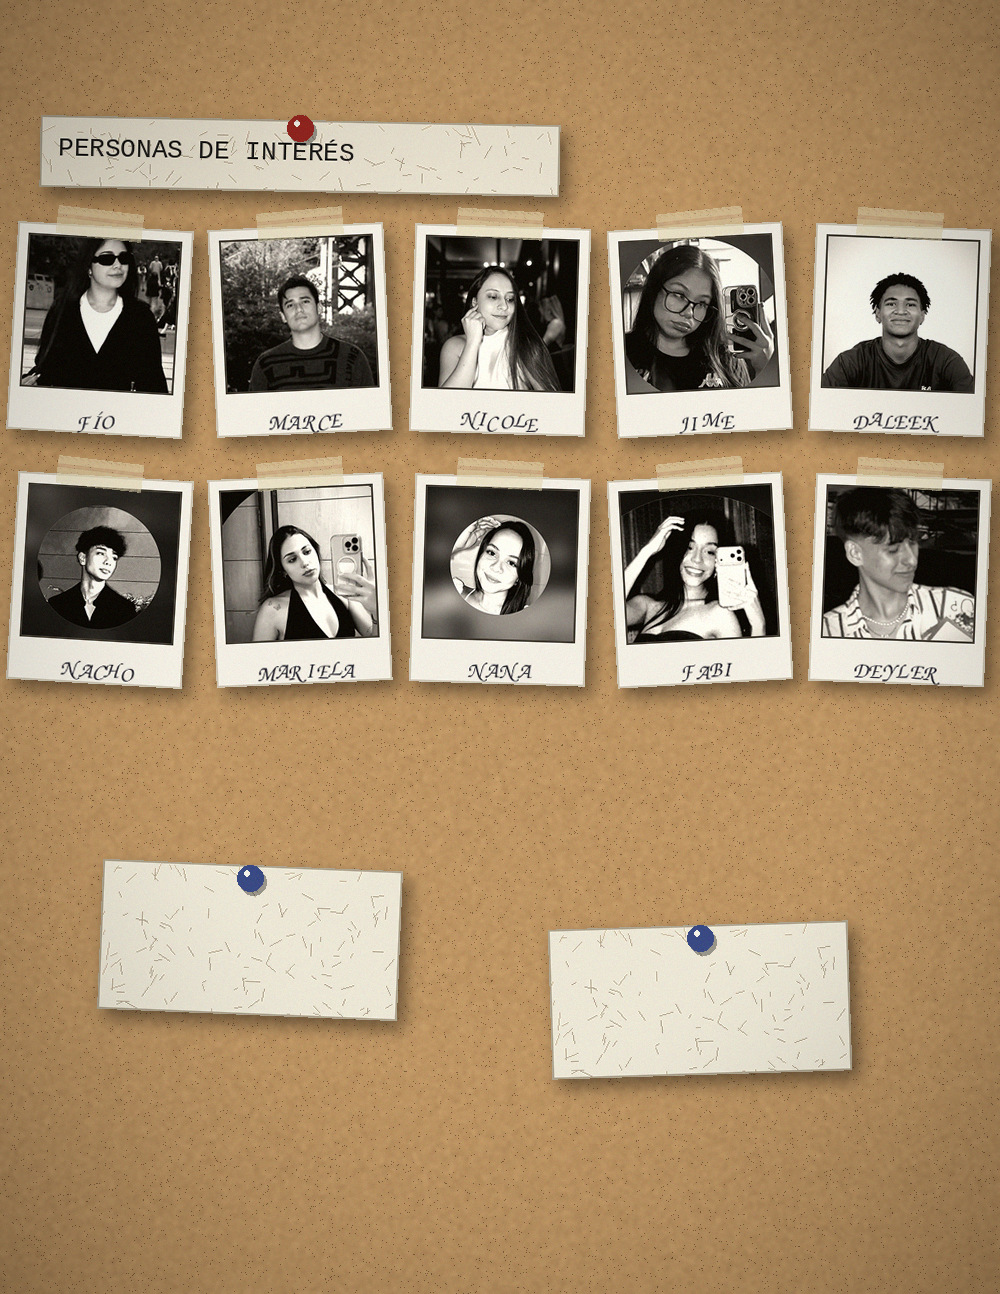
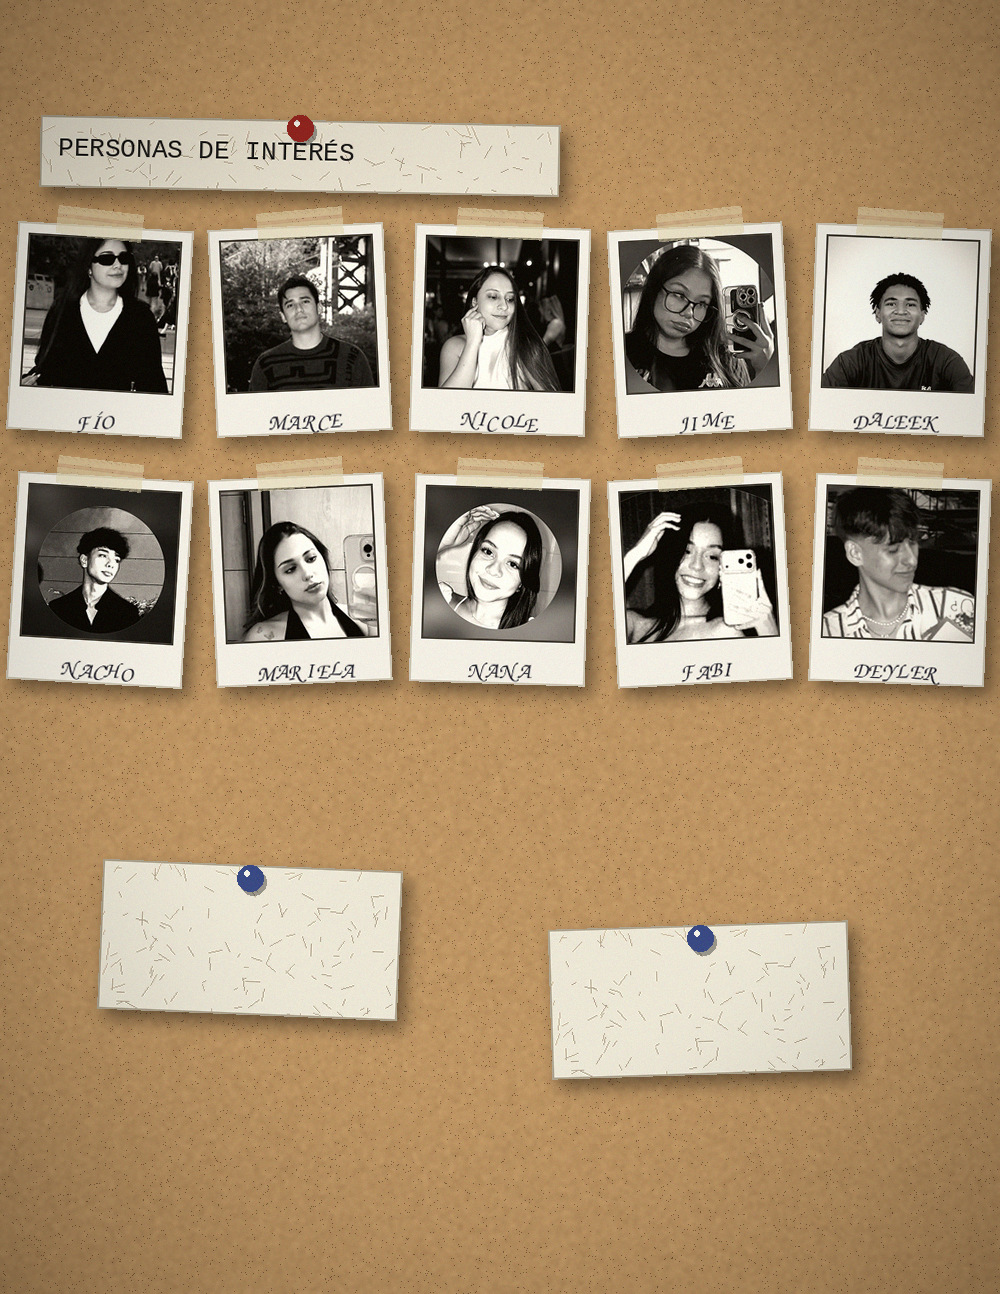
Expediente 002: ajuste manual de encuadre por sujeto
La cascada devuelve una caja chica cuando la cara va ladeada o el pelo
tapa la frente, y el recorte de 3.1x sale como plano mucho mas abierto
que el del resto. Con MARIELA era evidente: la cara quedaba lejos y
pequena frente a las otras nueve.

Se agrega una tabla de ajustes por alias en vez de mover el multiplicador
global, que descuadraria a quienes ya estaban bien. Corregidas MARIELA y
las tres que venian de avatar circular: NACHO, NANA y FABI.

Claude-Session: https://claude.ai/code/session_012N2L3txFtYauyY5dCD6BpE

diff --git a/expediente/process_photos.py b/expediente/process_photos.py
@@ -177,8 +177,29 @@ def detectar(bgr):
 # ─── Paso 2 — Recorte cuadrado ───────────────────────────────────────────────
 
 
-def recortar(pil, caja):
+# Ajuste manual del encuadre, por alias.
+#
+# La cascada devuelve una caja que no siempre cubre la cabeza entera: con la
+# cara ladeada, o con el pelo tapando la frente, la caja sale chica y el
+# recorte de 3.1× termina siendo un plano mucho más abierto que el del resto.
+# Como el encuadre parejo es lo que hace funcionar la rejilla de la hoja de
+# respuestas, estos casos se corrigen a mano en vez de tocar el multiplicador
+# global y descuadrar a los otros nueve.
+#
+#   zoom  <1 acerca, >1 aleja        dx, dy  desplazan, en fracción del lado
+AJUSTES = {
+    "MARIELA": {"zoom": 0.72, "dy": -0.04},
+    # Estas tres llegaron como avatar circular sobre fondo: la cara ocupa poco
+    # del original y el recorte automático las deja más lejos que al resto.
+    "NACHO": {"zoom": 0.80},
+    "NANA": {"zoom": 0.72},
+    "FABI": {"zoom": 0.80},
+}
+
+
+def recortar(pil, caja, ajuste=None):
     """Cuadrado centrado en la cara, desplazado hacia abajo para los hombros."""
+    ajuste = ajuste or {}
     ancho, alto = pil.size
     if caja is None:
         lado = min(ancho, alto)
@@ -186,9 +207,9 @@ def recortar(pil, caja):
         cy = alto * 0.42 if alto > ancho else alto / 2
     else:
         x, y, w, h = caja
-        lado = w * 3.1  # cabeza + hombros
-        cx = x + w / 2
-        cy = y + h / 2 + 0.10 * lado
+        lado = w * 3.1 * ajuste.get("zoom", 1.0)  # cabeza + hombros
+        cx = x + w / 2 + ajuste.get("dx", 0.0) * lado
+        cy = y + h / 2 + (0.10 + ajuste.get("dy", 0.0)) * lado
 
     lado = min(lado, ancho, alto)
     izq = int(round(min(max(cx - lado / 2, 0), ancho - lado)))
@@ -198,7 +219,7 @@ def recortar(pil, caja):
         # La caja de Haar suele empezar en la frente, así que el pelo queda por
         # encima. Sin reservar ese aire, el desplazamiento hacia los hombros
         # termina cortando la coronilla.
-        aire = 0.95 * caja[3]
+        aire = 0.95 * caja[3] * ajuste.get("zoom", 1.0)
         tope_maximo = int(round(caja[1] - aire))
         arr = min(arr, max(tope_maximo, 0))
         arr = min(arr, int(alto - lado))
@@ -246,7 +267,7 @@ def procesar(alias, ruta_origen):
     bgr = cv2.cvtColor(np.asarray(pil), cv2.COLOR_RGB2BGR)
     caja = detectar(bgr)
 
-    salida = filtro_archivo(recortar(pil, caja))
+    salida = filtro_archivo(recortar(pil, caja, AJUSTES.get(alias)))
     destino = os.path.join(DIR_SALIDA, f"{ARCHIVO_DE_ALIAS[alias]}.jpg")
     salida.save(destino, "JPEG", quality=94, subsampling=0)
     return destino, caja
